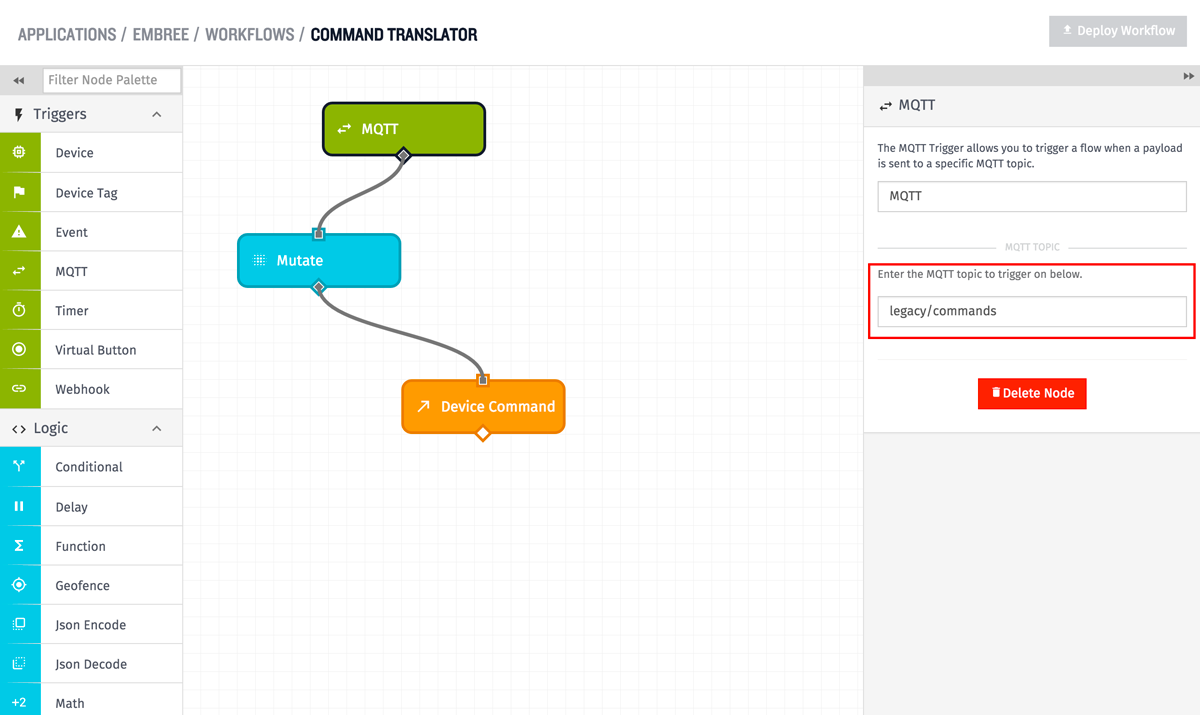
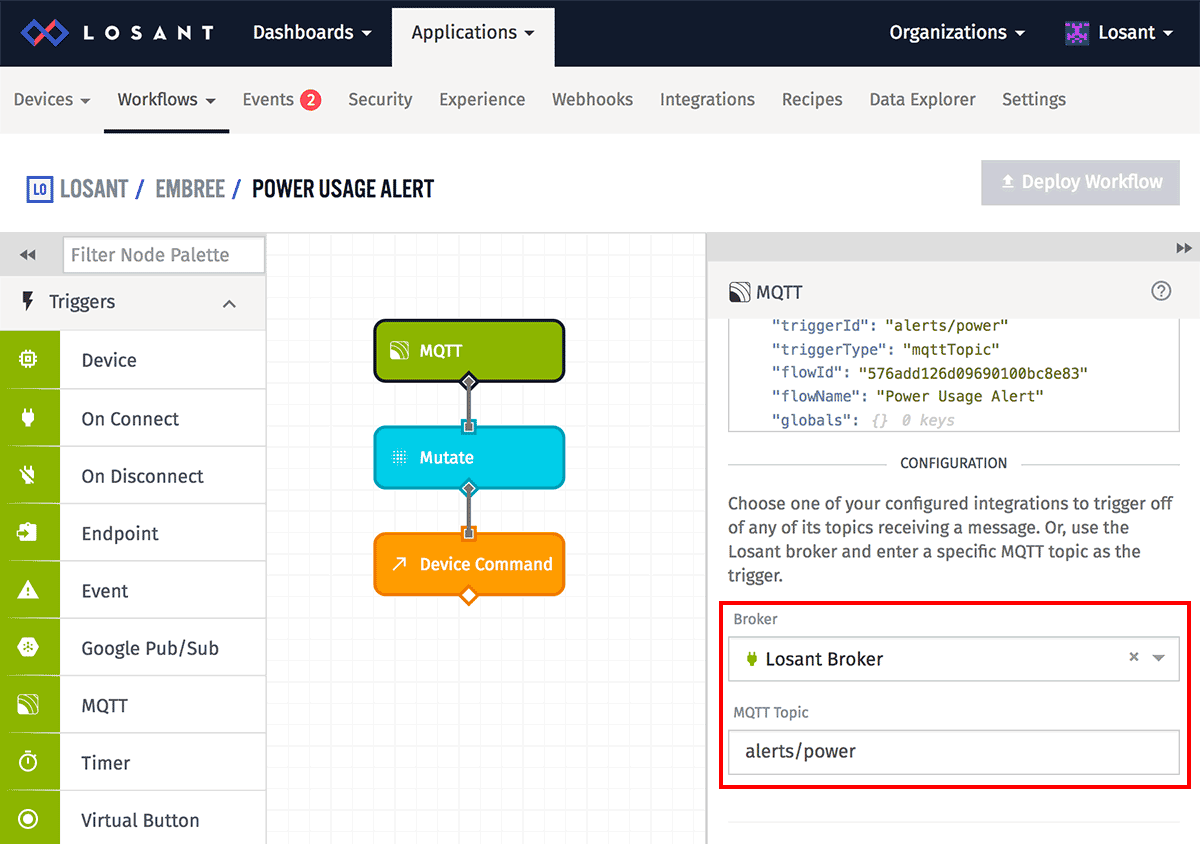
mqtt trigger and output node updates

Changed region(s): [[0.0, 0.0, 1.0, 1.0], [0.5858, 0.1846, 1.0, 0.9538]]

diff --git a/docs/workflows/triggers/mqtt.md b/docs/workflows/triggers/mqtt.md
@@ -1,20 +1,24 @@
 # MQTT Trigger
 
-The MQTT trigger will trigger a workflow whenever a message is sent to the configured topic on the Losant MQTT Broker.
+The MQTT trigger will trigger a workflow whenever a message is sent to one of your [MQTT broker integrations](/applications/integrations/#mqtt), or to a topic of your choosing on the [Losant MQTT broker](/mqtt/overview/#the-losant-message-broker).
 
 ![MQTT Trigger](/images/workflows/triggers/mqtt-trigger.png "MQTT Trigger")
 
 ## Configuration
 
-The only configuration needed for this node is the topic name to trigger on. The node supports valid MQTT topic names. The topic is not allowed to be a wildcard topic, a MQTT system topic, or a Losant specific topic.
+When setting up the trigger, you must first choose an MQTT broker. If you select one of your [MQTT broker integrations](/applications/integrations/#mqtt), the workflow will trigger anytime a message is received on one of the integration's configured topics.
+
+You may set up the trigger to work with the default Losant MQTT broker. When doing so, you must also define a single topic on which the workflow should trigger when a message is published to that topic. This must be a [valid MQTT topic](http://www.hivemq.com/blog/mqtt-essentials-part-5-mqtt-topics-best-practices), and furthermore, it cannot be a wildcard topic, an MQTT system topic or a Losant-specific topic.
 
 ![MQTT Trigger Config](/images/workflows/triggers/mqtt-trigger-config.png "MQTT Trigger Config")
 
-In the above example, the workflow will be triggered whenever any message is published on the MQTT topic "legacy/commands".
+In the above example, the workflow will trigger whenever any message is published to the Losant broker on the MQTT topic "alerts/power".
 
 ## Payload
 
-The payload will include the payload of the MQTT message on the `data` field, as well as the standard workflow payload information. Unlike most other triggers, where the value of the `data` field is an object, the value of `data` for the MQTT trigger will be a string. In the general case, a MQTT workflow payload will look like the following:
+The payload will include the payload of the MQTT message on the `data` field, as well as the standard workflow payload information. The `triggerType` will be "mqttTopic" when using the Losant broker, and "subscription" when using one of your integrations.
+
+Unlike most other triggers, where the value of the `data` field is an object, the value of `data` for the MQTT trigger will be a string. In the general case, an MQTT workflow payload will look like the following:
 
 ```json
 {
@@ -38,10 +42,10 @@ For the example workflow above, a specific payload for a triggered workflow migh
   "data": "machineOn",
   "applicationId": "568beedeb436ab01007be53d",
   "applicationName": "Embree",
-  "triggerId": "legacy/commands",
+  "triggerId": "alerts/power",
   "triggerType": "mqttTopic",
   "flowId": "56c74add04d0b50100043381",
-  "flowName": "Command Translator",
+  "flowName": "Power Usage Alert",
   "globals": {}
 }
 ```

diff --git a/docs/workflows/outputs/mqtt.md b/docs/workflows/outputs/mqtt.md
@@ -1,15 +1,15 @@
 # MQTT Node
 
-The MQTT node allows a workflow to publish a message on the configured topic on the Losant MQTT Broker.
+The MQTT node allows a workflow to publish a message to the configured topic on either the Losant MQTT Broker or one of your [MQTT broker integrations](/applications/integrations/#mqtt).
 
 ![MQTT Node](/images/workflows/outputs/mqtt-node.png "MQTT Node")
 
 ## Configuration
 
-There are two properties to configure for the MQTT node - the topic to publish on, and the message to publish.
+There are three properties to configure for the MQTT node:
 
-![MQTT Node Config](/images/workflows/outputs/mqtt-node-config.png "MQTT Node Config")
+* **Broker** is the MQTT broker on which to publish the topic. By default this is the [Losant broker](/mqtt/overview/#the-losant-message-broker), but you may also choose one of your [MQTT broker integrations](/applications/integrations/#mqtt).
+* **Topic** is a [string template](/workflows/accessing-payload-data/#string-templates) for the topic to publish the message on. This must render to a [valid topic name](http://www.hivemq.com/blog/mqtt-essentials-part-5-mqtt-topics-best-practices), and depending on the broker, there may be additional rules around the topic's format. For example, when publishing to the Losant broker, the topic cannot be a wildcard topic, an MQTT system topic or a Losant-specific topic.
+* **Message** is an optional [string template](/workflows/accessing-payload-data/#string-templates). If no message is given, a blank message is published on the configured topic.
 
-The topic to publish on is required and must be a valid MQTT topic name, but is not allowed to be a wildcard topic, a MQTT system topic, or a Losant specific topic. The topic supports [string templates](/workflows/accessing-payload-data/#string-templates), so dynamic topics based upon the current payload are possible. The message to publish also supports [string templates](/workflows/accessing-payload-data/#string-templates) and is optional - if no message is given, a blank message is published on the configured topic.
-
-In the above example, the contents of the `container.jsonString` field on the current payload will be published on the MQTT topic `new/commands`.
+In the above example, the contents of the `container.string` field on the current payload will be published to the Losant broker on the MQTT topic `new/commands`.
